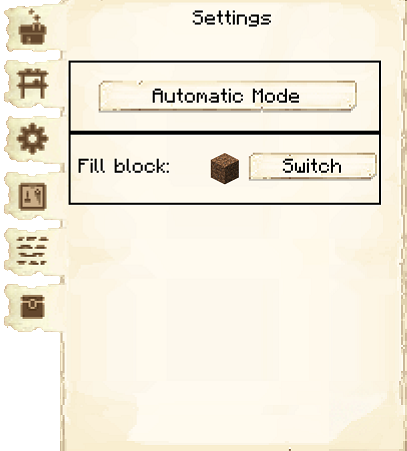
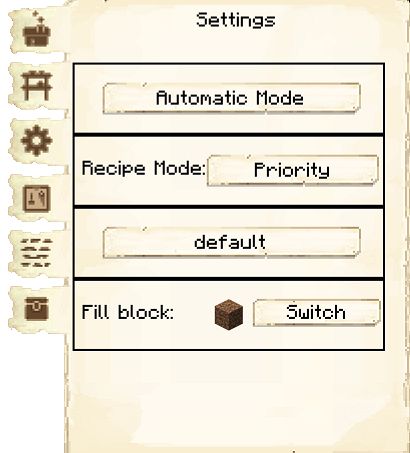
Research updates for huts

diff --git a/source/buildings/builder.md b/source/buildings/builder.md
@@ -74,6 +74,22 @@ Once the Builder's Hut is built you can now build anything you want, like worker
       <p>The third tab of the GUI is <strong>Settings</strong>.</p>
       <ul>
         <li><strong>Builder Mode:</strong> Here you can set your Builder to Manual or Automatic mode (Automatic by default). In Automatic, the builder chooses which build order they'll complete next themselves (based on the order of the build requests in the <a href="../../source/buildings/townhall">Town Hall</a> GUI's <a href="#workorders">work orders</a> tab). In Manual, you choose their next build order yourself by clicking Select next to the build order's name.</li>
+        <li><strong>Recipe Mode:</strong> This is unlocked by researching Warehouse Master in the University. This allows you to change the order the hut chooses when it knows more than one recipe for an item. 
+          <ul>
+            <li><strong>Priority:</strong> This is the default setting. The hut will try to use the recipe that is higher up in their recipe list first.</li>
+            <li><strong>Warehouse Stock:</strong> The hut will look in the warehouse first to see what resource you have more of before deciding what recipe it will use.</li>
+          </ul>
+          <p>For example: the sawmill has two recipes to make chests: one using 8 oak planks, and one using 8 spruce planks. In "Priority" mode, if the oak planks recipe is higher on the list, the carpenter would always use oak planks to make chests (even if there are none left). In "Warehouse Stock" mode, the carpenter would check to see that there are more spruce planks than oak planks in the warehouse before deciding to use spruce planks to make chests.</p>
+        </li>
+        <li><strong>Build Method:</strong> This is unlocked by researching Builder Modes in the University.  This allows you to change how the builder builds, reducing pathfinding and speeding up builds (especially large builds).  Any one of these can be set in the structurize config, but once the "Builder Modes" research is done in the university, the one set here takes precedence.
+          <ul>
+            <li><strong>default:</strong> The default row-by-row pattern.</li>
+            <li><strong>inwardcircle:</strong> Blocks are placed like a square spiral from the outside in.</li>
+            <li><strong>inwardcircleheight#:</strong> This will also make spirals from the outside in, but each spiral gets built upward 1 to 4 times, before the builder will start the next square inward.</li>
+            <li><strong>hilbert:</strong> hilbert does <a href="https://en.wikipedia.org/wiki/Hilbert_curve" target="_blank">this pattern</a>, with a little difference to work for rectangular areas.</li>
+            <li><strong>random:</strong> Blocks are placed in an entirely random order. Note that this slows down builds.</li>
+          </ul>
+        </li>
         <li><strong>Fill Block:</strong> Here you can select what block the builder uses to fill in holes/gaps in the schematic.  The default is the dirt block.</li>
       </ul>
     </div>

diff --git a/source/buildings/blacksmith.md b/source/buildings/blacksmith.md
@@ -97,14 +97,14 @@ When accessing the Blacksmith's Hut block by right-clicking on it, you will see 
     <br>
     <p>The fourth tab of the GUI is <strong>Settings</strong>.</p>
     <ul>
-      <li><strong>Recipe Mode:</strong> This is unlocked by researching Warehouse Master in the [University](../../source/buildings/university).  This allows you to change the order the hut chooses when it knows more than one recipe for an item.
+      <li><strong>Recipe Mode:</strong> This is unlocked by researching Warehouse Master in the University. This allows you to change the order the hut chooses when it knows more than one recipe for an item. 
         <ul>
-          <li><strong>Priority:</strong>  This is the default setting.  The hut will try to use the recipe that is higher up in their recipe list first.</li>
+          <li><strong>Priority:</strong> This is the default setting. The hut will try to use the recipe that is higher up in their recipe list first.</li>
           <li><strong>Warehouse Stock:</strong> The hut will look in the warehouse first to see what resource you have more of before deciding what recipe it will use.</li>
         </ul>
      </li>
     </ul>
-    <p>For example: the sawmill has two recipes to make chests, one using 8 oak planks, and one using 8 spruce planks. If the oak planks to chest recipe is higher on the list, the carpenter would always use oak planks to make it (even when there is hardly any oak left). The warehouse stock option could let them select spruce planks, when there is much more spruce planks in the warehouse than oak planks.</p>
+    <p>For example: the sawmill has two recipes to make chests: one using 8 oak planks, and one using 8 spruce planks. In "Priority" mode, if the oak planks recipe is higher on the list, the carpenter would always use oak planks to make chests (even if there are none left). In "Warehouse Stock" mode, the carpenter would check to see that there are more spruce planks than oak planks in the warehouse before deciding to use spruce planks to make chests.</p>
   </div>
 </div>
 

diff --git a/source/buildings/bakery.md b/source/buildings/bakery.md
@@ -125,14 +125,14 @@ The Baker can also craft some non-vanilla breads:
     <br>
     <p>The seventh tab of the GUI is <strong>Settings</strong>.</p>
     <ul>
-      <li><strong>Recipe Mode:</strong> This is unlocked by researching Warehouse Master in the [University](../../source/buildings/university).  This allows you to change the order the hut chooses when it knows more than one recipe for an item.
+      <li><strong>Recipe Mode:</strong> This is unlocked by researching Warehouse Master in the University. This allows you to change the order the hut chooses when it knows more than one recipe for an item. 
         <ul>
-          <li><strong>Priority:</strong>  This is the default setting.  The hut will try to use the recipe that is higher up in their recipe list first.</li>
+          <li><strong>Priority:</strong> This is the default setting. The hut will try to use the recipe that is higher up in their recipe list first.</li>
           <li><strong>Warehouse Stock:</strong> The hut will look in the warehouse first to see what resource you have more of before deciding what recipe it will use.</li>
         </ul>
      </li>
     </ul>
-    <p>For example: the sawmill has two recipes to make chests, one using 8 oak planks, and one using 8 spruce planks. If the oak planks to chest recipe is higher on the list, the carpenter would always use oak planks to make it (even when there is hardly any oak left). The warehouse stock option could let them select spruce planks, when there is much more spruce planks in the warehouse than oak planks.</p>
+    <p>For example: the sawmill has two recipes to make chests: one using 8 oak planks, and one using 8 spruce planks. In "Priority" mode, if the oak planks recipe is higher on the list, the carpenter would always use oak planks to make chests (even if there are none left). In "Warehouse Stock" mode, the carpenter would check to see that there are more spruce planks than oak planks in the warehouse before deciding to use spruce planks to make chests.</p>
   </div>
 </div>
 
